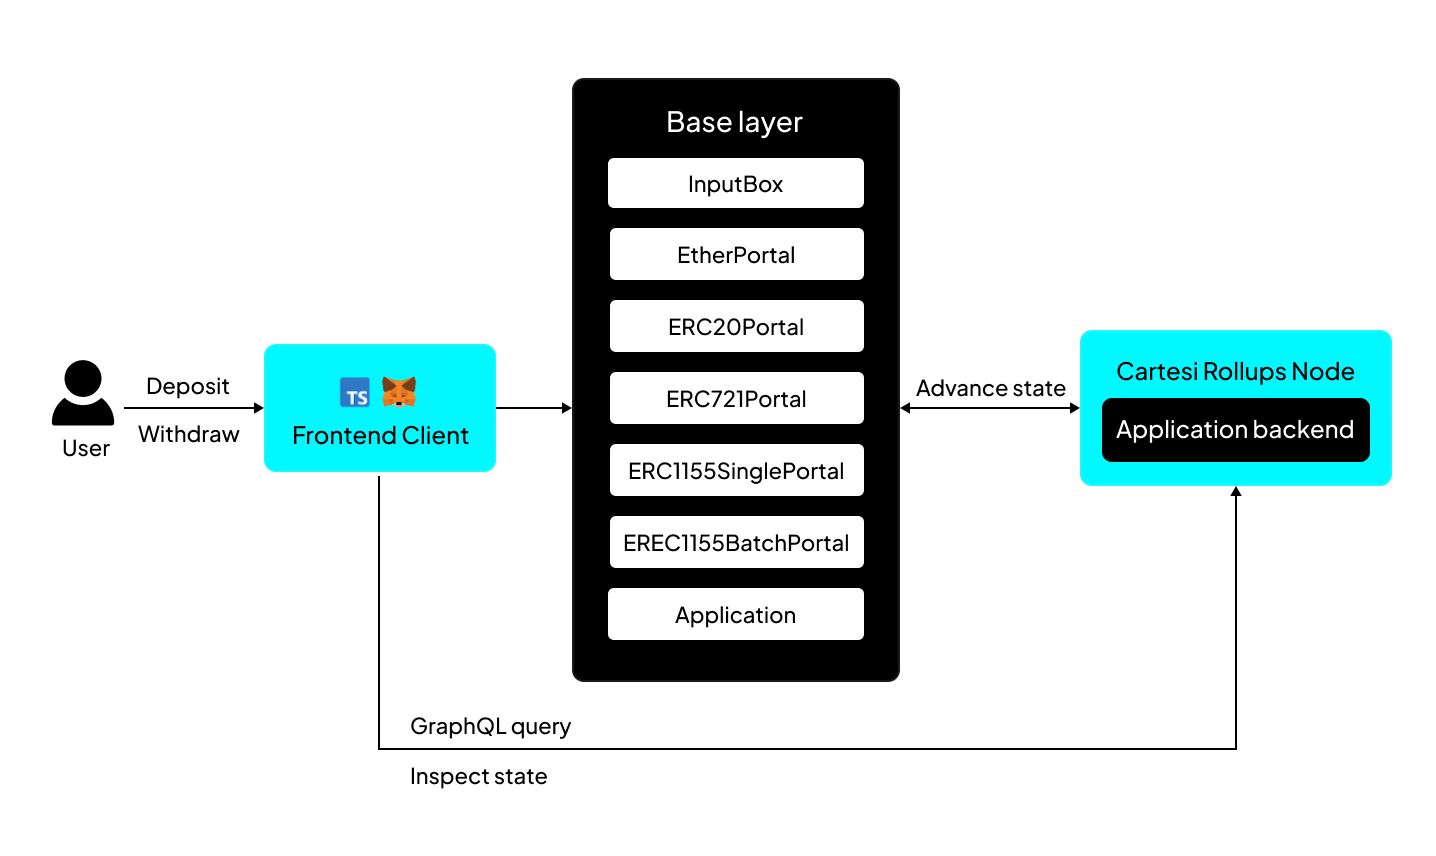
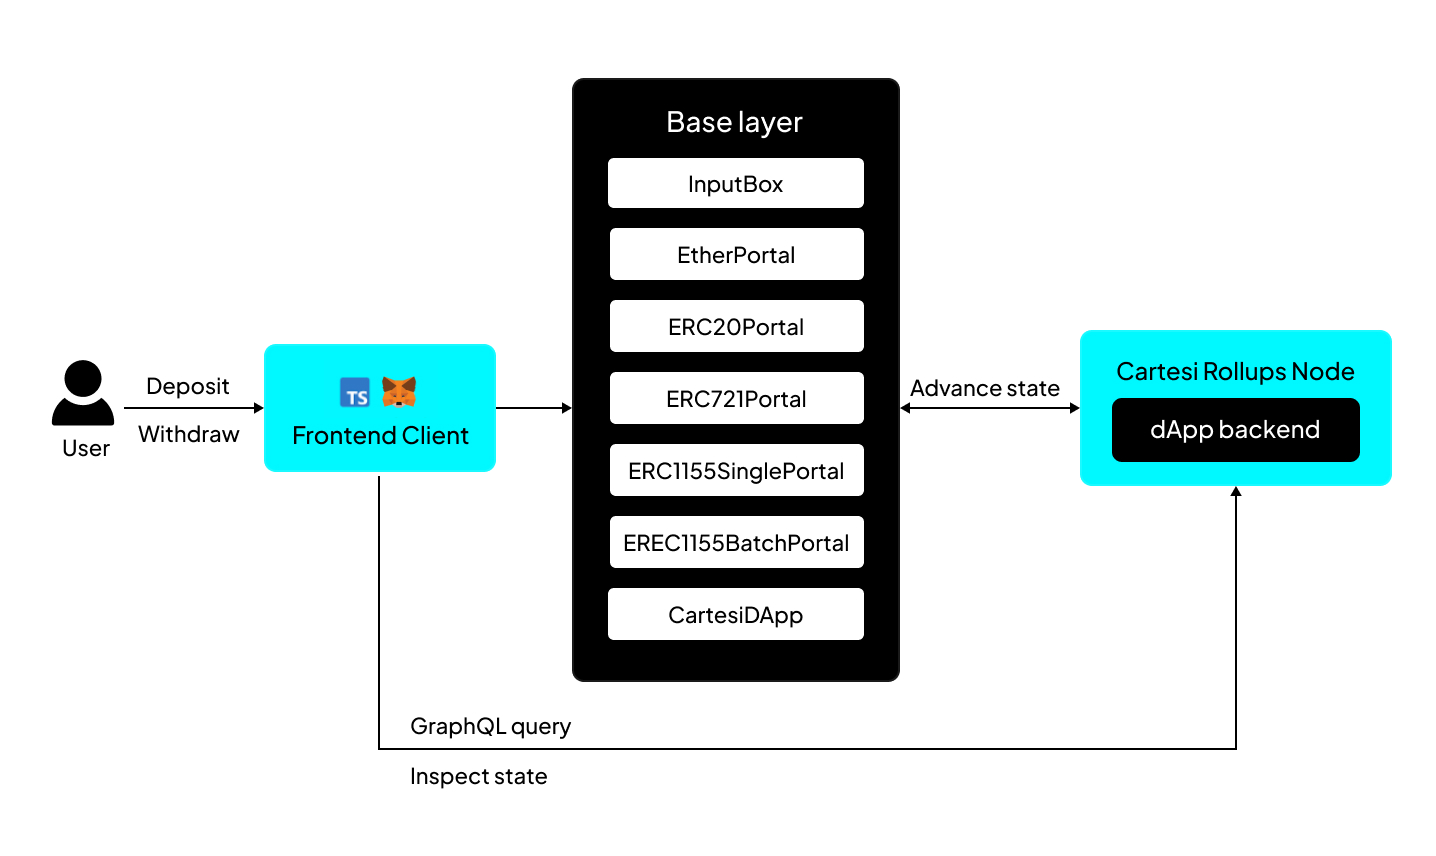
mod: updated querry outputs inline with V2

Changed region(s): [[0.766, 0.4556, 0.9805, 0.5467], [0.6435, 0.4252, 0.7354, 0.486], [0.4596, 0.6986, 0.5515, 0.729]]

diff --git a/cartesi-rollups_versioned_docs/version-2.0/development/query-outputs.md b/cartesi-rollups_versioned_docs/version-2.0/development/query-outputs.md
@@ -42,7 +42,6 @@ They serve as a means for application to notify the blockchain about particular 
 
 - Notices are validated on-chain using the [`validateNotice()`](../api-reference/json-rpc/application.md/#validatenotice) function of the [`CartesiDApp`](../api-reference/json-rpc/application.md) contract.
 
-
 ### Send a notice
 
 Let's examine how an Application has its Advance request **calculating and returning the first five multiples of a given number**.
@@ -168,7 +167,7 @@ The notice can be validated and queried by any interested party.
 
 Frontend clients can use a GraphQL API exposed by the Cartesi Nodes to query the state of a Cartesi Rollups instance.
 
-You can use the interactive in-browser GraphQL playground hosted on `http://localhost:8080/graphql/{application_address}` for local development. Note that you'll have to replace `{application_address}` with the address of your application.
+You can use the interactive in-browser GraphQL playground hosted on `http://localhost:8080/graphql/{dapp_address}` for local development. Note that you'll have to replace '{dapp_address}' with the address of your application.
 
 In a GraphQL Playground, you typically have a section where you can input your query and variables separately. Here's how you would do it:
 
@@ -272,7 +271,7 @@ Then, in the bottom-left corner of the Playground, you'll find a section that pr
 }
 ```
 
-Replace `0` with the value you want to pass for `$inputIndex`.
+Replace `123` with the value you want to pass for `$inputIndex`.
 
 <!-- <video width="100%" controls poster="/static/img/v1.3/graphqlPoster.png">
     <source src="/videos/Query_Singlenotice.mp4" type="video/mp4" />
@@ -430,7 +429,7 @@ You can use the exposed GraphQL API to query all reports from your application.
 
 Frontend clients can use a GraphQL API exposed by the Cartesi Nodes to query the state of a Cartesi Rollups instance.
 
-You can use the interactive in-browser GraphQL playground hosted on `http://localhost:8080/graphql/{application_address}` for local development.
+You can use the interactive in-browser GraphQL playground hosted on `http://localhost:8080/graphql/{dapp_address}` for local development.
 
 In a GraphQL Playground, you typically have a section where you can input your query and variables separately. Here's how you would do it:
 
